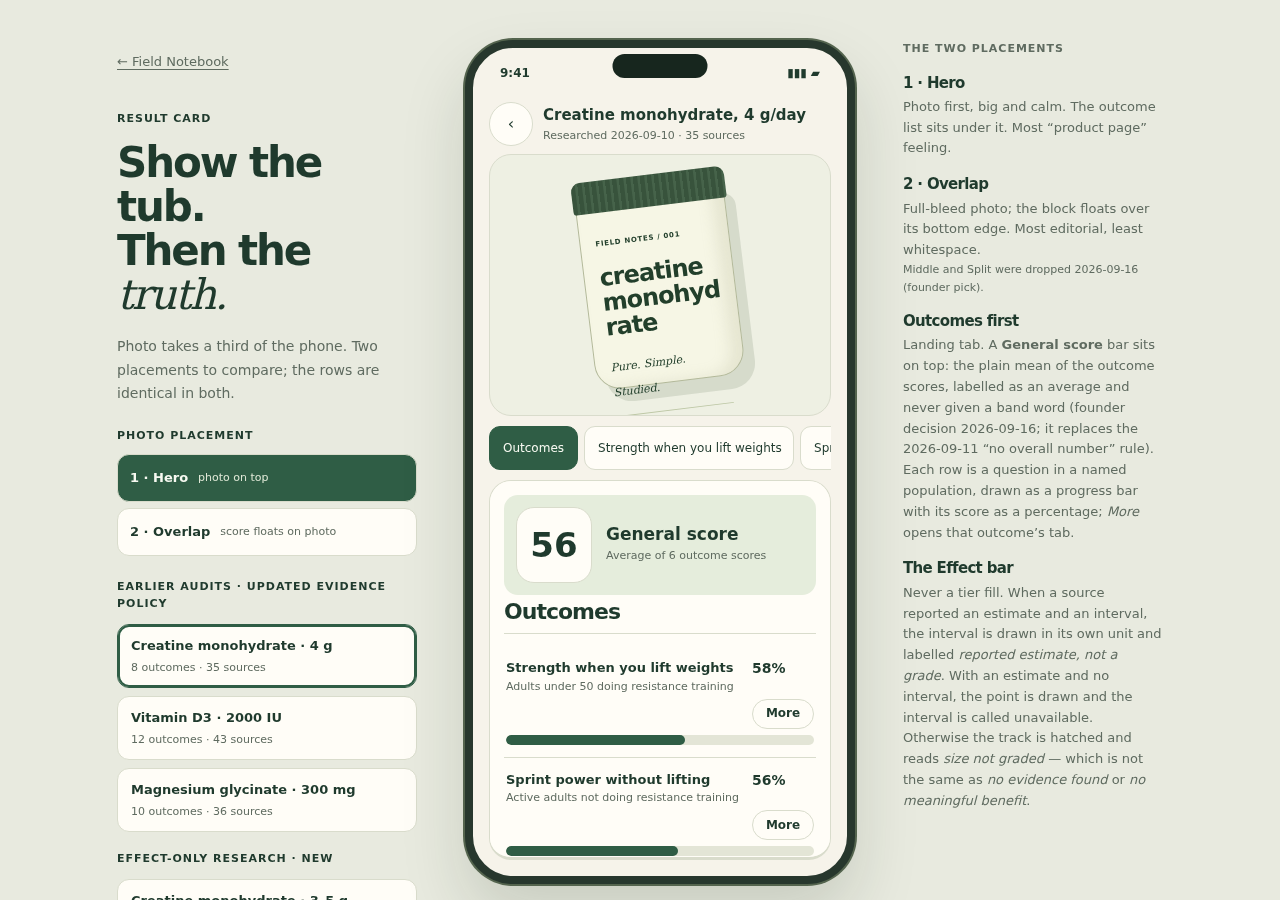
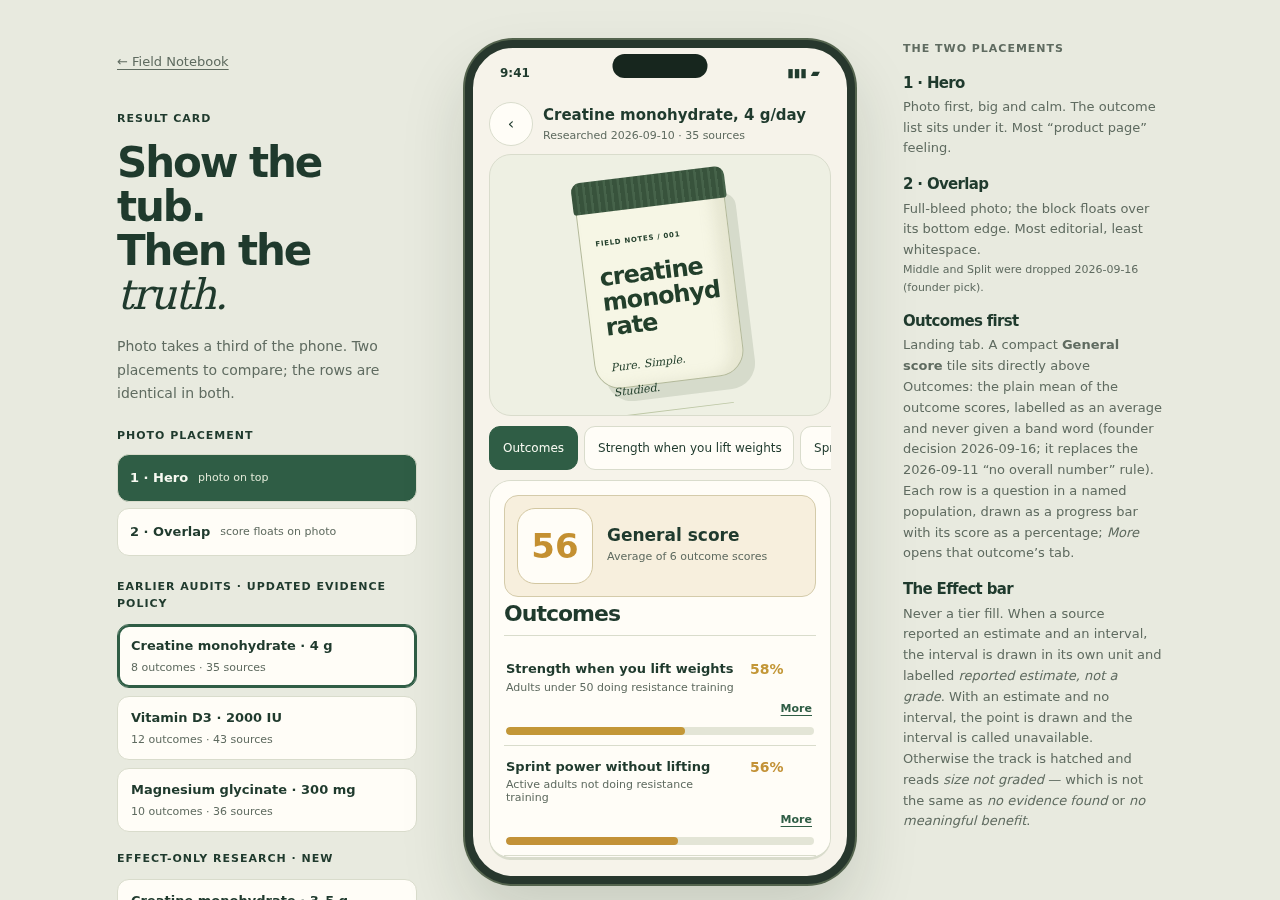
Preview: evidence-weighted score colors and collapsed warning counts
Outcome bars now map score direction red→amber→green; evidence coverage/certainty controls saturation/lightness so weak signals look weaker. Rows are compact with an underlined More action beneath the percentage and bar below. Lab and /scan warnings collapse behind one N warnings summary; validity remains visible. Checked 438 tests, typecheck, lint 0 errors, Python gates, build, 360/390 no overflow.

diff --git a/app/design-lab/ab/prototype.tsx b/app/design-lab/ab/prototype.tsx
@@ -1,6 +1,6 @@
 "use client";
 
-import { useState } from "react";
+import { useState, type CSSProperties } from "react";
 import Link from "next/link";
 import { detailFromAudit, ledgerFromAudit, personFit, score, type AuditFile, type Ledger, type Profile, type StudiedIn } from "./ledger";
 import { parseEffectResearch, type EffectResearchFile } from "./effect-contract";
@@ -177,6 +177,18 @@ interface Row {
   kind?: string;
 }
 
+function scoreSignalColor(score: number | null, signal = 1): string {
+  if (score === null) return "var(--ab-muted)";
+  const value = Math.max(0, Math.min(100, score));
+  const strength = Math.max(0, Math.min(1, signal));
+  // 0 → red, 60 → amber, 100 → green. Evidence strength controls
+  // saturation/lightness: weak signals look deliberately washed, not certain.
+  const hue = value <= 60 ? (value / 60) * 42 : 42 + ((value - 60) / 40) * 98;
+  const saturation = 32 + strength * 48;
+  const lightness = 54 - strength * 10;
+  return `hsl(${Math.round(hue)} ${Math.round(saturation)}% ${Math.round(lightness)}%)`;
+}
+
 const TRACK_FOR: Record<EffectBar["kind"], TrackState> = {
   reported_interval: "interval",
   reported_point: "interval",
@@ -270,7 +282,7 @@ export default function AbPrototype({ initial, publicTest = false }: AbPrototype
    * word ("probably works") -- the bar and the number carry it; the drill-in
    * button says where the detail lives. */
   const outcomeRows: Row[] = scored.map((x, i): Row => ({
-    id: `o${i}`, name: x.o.name, sub: x.o.population, color: isPicked(x.o) ? "var(--ab-r1)" : "var(--ab-track)",
+    id: `o${i}`, name: x.o.name, sub: x.o.population, color: isPicked(x.o) ? scoreSignalColor(x.r?.headline ?? null, x.r ? x.r.certainty / 4 : 0) : "var(--ab-track)",
     fill: x.r && x.r.headline !== null ? x.r.headline / 100 : null, track: x.r && x.r.headline !== null ? "fill" : "hatch", scale: null,
     pts: x.r && x.r.headline !== null ? `${x.r.headline}%` : "—",
     word: isPicked(x.o) ? "" : "Not picked",
@@ -293,9 +305,11 @@ export default function AbPrototype({ initial, publicTest = false }: AbPrototype
    * as a verdict about one person (founder decision 2026-09-16). */
   const pickedHeadlines = scored.filter((x) => isPicked(x.o) && x.r && x.r.headline !== null).map((x) => x.r!.headline as number);
   const general = pickedHeadlines.length ? Math.round(pickedHeadlines.reduce((a, b) => a + b, 0) / pickedHeadlines.length) : null;
+  const pickedSignals = scored.filter((x) => isPicked(x.o) && x.r && x.r.headline !== null).map((x) => x.r!.certainty / 4);
+  const generalSignal = pickedSignals.length ? pickedSignals.reduce((a, b) => a + b, 0) / pickedSignals.length : 0;
   const listBlock = (
     <div className="ab-listhead">
-      <div className="ab-general" role="img" aria-label={general === null ? "General score: no scored outcomes" : `General score ${general}, average of ${pickedHeadlines.length} outcome scores`}>
+      <div className="ab-general" style={{ "--ab-score-color": scoreSignalColor(general, generalSignal) } as CSSProperties} role="img" aria-label={general === null ? "General score: no scored outcomes" : `General score ${general}, average of ${pickedHeadlines.length} outcome scores; signal strength ${Math.round(generalSignal * 100)}%`}>
         <strong className="ab-general-score">{general === null ? "\u2014" : general}</strong>
         <span className="ab-general-name">General score<small>Average of {pickedHeadlines.length} outcome score{pickedHeadlines.length === 1 ? "" : "s"}</small></span>
       </div>
@@ -322,7 +336,7 @@ export default function AbPrototype({ initial, publicTest = false }: AbPrototype
       <button type="button" aria-expanded={d.jump === null ? isOpen : undefined} aria-controls={d.jump === null ? `ab-det-${d.id}` : undefined} onClick={onTap}>
         <span className="ab-bar-name">{d.name}{d.sub && <small>{d.sub}</small>}</span>
         <span className="ab-bar-word">{d.word}</span>
-        <span className="ab-bar-pts">{d.pts}</span>
+        <span className="ab-bar-pts" style={isList && d.fill !== null ? { color: d.color } : undefined}>{d.pts}</span>
         {d.jump !== null
           ? <span className="ab-more" aria-hidden="true">More</span>
           : <span className="ab-chev" aria-hidden="true"><svg width="16" height="16" viewBox="0 0 16 16"><path d="M3 6l5 5 5-5" fill="none" stroke="currentColor" strokeWidth="1.8" strokeLinecap="round" strokeLinejoin="round"/></svg></span>}
@@ -338,16 +352,18 @@ export default function AbPrototype({ initial, publicTest = false }: AbPrototype
     </li>;
   })}</ul>;
   const gates = legacy && firedGates.length > 0 && <details className="ab-gates"><summary>⚑ {firedGates.length === 1 ? firedGates[0] : `${firedGates.length} limits · ${firedGates[0]}`}</summary><ul>{firedGates.map((g) => <li key={g}>{g}</li>)}</ul></details>;
-  const warnings = cur?.o.warnings && <section className="ab-warnings" aria-label="Evidence warnings" key={`${key}:${tab}`}>
-    <p><b>⚠ Evidence warnings</b> · disclosure only, no score penalty</p>
-    {cur.o.warnings.map((w) => <details key={w.id} data-warning={w.id}>
-      <summary>{w.title} · {w.status}</summary>
-      <p>{w.explanation}</p>
-      <p className="ab-stamp">Retained AI source notes · not human-verified. Quoted audit commentary is not the current scoring rule.</p>
-      {w.reported.length ? w.reported.map((text, i) => <p key={i}>{text}</p>) : <p>No specific source detail was retained. That is unknown, not evidence that the literature is free of this concern.</p>}
-      {cur.o.effect.sourceLinks.length > 0 && <p><b>Sources for this outcome</b> {cur.o.effect.sourceLinks.map((l) => l.url ? <a key={l.id} href={l.url} target="_blank" rel="noreferrer">{l.label} ({l.access}) </a> : <span key={l.id}>{l.label} ({l.access}) </span>)}</p>}
-    </details>)}
-  </section>;
+  const warnings = cur?.o.warnings?.length ? <details className="ab-warnings" key={`${key}:${tab}`}>
+    <summary><span>⚠ {cur.o.warnings.length} evidence warning{cur.o.warnings.length === 1 ? "" : "s"}</span><small>disclosure only, no score penalty</small></summary>
+    <div className="ab-warning-list" aria-label="Evidence warnings">
+      {cur.o.warnings.map((w) => <details key={w.id} data-warning={w.id}>
+        <summary>{w.title} · {w.status}</summary>
+        <p>{w.explanation}</p>
+        <p className="ab-stamp">Retained AI source notes · not human-verified. Quoted audit commentary is not the current scoring rule.</p>
+        {w.reported.length ? w.reported.map((text, i) => <p key={i}>{text}</p>) : <p>No specific source detail was retained. That is unknown, not evidence that the literature is free of this concern.</p>}
+        {cur.o.effect.sourceLinks.length > 0 && <p><b>Sources for this outcome</b> {cur.o.effect.sourceLinks.map((l) => l.url ? <a key={l.id} href={l.url} target="_blank" rel="noreferrer">{l.label} ({l.access}) </a> : <span key={l.id}>{l.label} ({l.access}) </span>)}</p>}
+      </details>)}
+    </div>
+  </details> : null;
   const tabs = <div className="ab-tabs" aria-label="Outcome"><button type="button" aria-pressed={isList} onClick={() => go(null)}>Outcomes</button>{scored.map((x) => <button key={x.k} type="button" aria-pressed={tab === x.k} onClick={() => go(x.k)} title={x.o.population ?? undefined}>{x.o.name}</button>)}</div>;
   const header = <header className="ab-top"><button type="button" className="ab-back" aria-label="Back" onClick={() => go(null)}>‹</button><div className="ab-title"><strong>{s.product}</strong>{s.live && <small>Researched {s.live.runAt} · {s.live.sources} sources</small>}{s.research && <small>Effect-only pass {s.research.meta.run_at} · {s.research.sources.length} sources</small>}</div></header>;
   const block = isList ? listBlock : detailBlock;

diff --git a/components/scan-flow.tsx b/components/scan-flow.tsx
@@ -54,7 +54,7 @@
  *    currently visible.
  */
 
-import { useCallback, useEffect, useRef, useState } from "react";
+import { useCallback, useEffect, useRef, useState, type CSSProperties } from "react";
 
 import { SaveResultCard } from "@/components/google-sign-in";
 import { ScanCamera } from "@/components/scan-camera";
@@ -89,6 +89,16 @@ const ACCEPTED_TYPES = "image/png,image/jpeg,image/webp,image/gif";
 
 function pct(value: NullableNumber): string {
   return value === null || value === undefined ? "—" : `${Math.round(value * 100)}%`;
+}
+
+function scoreSignalColor(score: NullableNumber, signal: NullableNumber): string {
+  if (score === null || score === undefined) return "var(--sp-mute)";
+  const value = Math.max(0, Math.min(100, score));
+  const strength = Math.max(0, Math.min(1, signal ?? 0));
+  const hue = value <= 60 ? (value / 60) * 42 : 42 + ((value - 60) / 40) * 98;
+  const saturation = 32 + strength * 48;
+  const lightness = 54 - strength * 10;
+  return `hsl(${Math.round(hue)} ${Math.round(saturation)}% ${Math.round(lightness)}%)`;
 }
 
 function signed(value: NullableNumber): string {
@@ -326,10 +336,13 @@ function OutcomeTabs({ rows }: { rows: EvidenceRow[] }) {
         ) : (
           <>
             {(() => {
-              const scores = rows.map((r) => r.composite).filter((c): c is number => typeof c === "number");
+              const scoredRows = rows.filter((r) => typeof r.composite === "number");
+              const scores = scoredRows.map((r) => r.composite as number);
               const general = scores.length ? Math.round(scores.reduce((a, b) => a + b, 0) / scores.length) : null;
+              const signals = scoredRows.map((r) => r.arcs.evidence?.coverage).filter((v): v is number => typeof v === "number");
+              const generalSignal = signals.length ? signals.reduce((a, b) => a + b, 0) / signals.length : 0;
               return (
-                <div className="sc-general" role="img" aria-label={general === null ? "General score: no scored outcomes" : `General score ${general}, average of ${scores.length} outcome scores`}>
+                <div className="sc-general" style={{ "--sc-score-color": scoreSignalColor(general, generalSignal) } as CSSProperties} role="img" aria-label={general === null ? "General score: no scored outcomes" : `General score ${general}, average of ${scores.length} outcome scores; signal strength ${Math.round(generalSignal * 100)}%`}>
                   <strong className="sc-general-score">{general === null ? "\u2014" : general}</strong>
                   <span className="sc-general-name">
                     <strong>General score</strong>
@@ -345,9 +358,9 @@ function OutcomeTabs({ rows }: { rows: EvidenceRow[] }) {
                 <li key={row.outcome}>
                   <button type="button" className={`sc-outcome-row${gated ? " sc-outcome-row-gated" : ""}`} onClick={() => go(row.outcome, true)} aria-label={`${label(row)}, ${gated ? "no composite score" : `${row.composite} out of 100`}. More`}>
                     <span className="sc-outcome-row-name"><strong>{label(row)}</strong></span>
-                    <span className="sc-outcome-row-score"><strong>{gated ? "—" : `${row.composite}%`}</strong></span>
+                    <span className="sc-outcome-row-score"><strong style={!gated ? { color: scoreSignalColor(row.composite, row.arcs.evidence?.coverage) } : undefined}>{gated ? "—" : `${row.composite}%`}</strong></span>
                     <span className="sc-outcome-row-track" aria-hidden="true">
-                      <span className="sc-outcome-row-fill" style={{ width: `${gated ? 0 : Math.max(0, Math.min(100, row.composite ?? 0))}%` }} />
+                      <span className="sc-outcome-row-fill" style={{ width: `${gated ? 0 : Math.max(0, Math.min(100, row.composite ?? 0))}%`, background: scoreSignalColor(row.composite, row.arcs.evidence?.coverage) }} />
                     </span>
                     <span className="sc-outcome-row-more" aria-hidden="true">More</span>
                   </button>
@@ -642,7 +655,8 @@ export function ScanFlow({ catalog }: { catalog: CatalogIngredient[] }) {
 
   const disclosures = data ? literatureDisclosures(data.literature_warnings?.data) : [];
   const mlm = company?.profile.status === "ok" ? businessModelDisclosure(company.profile.data?.business_model) : null;
-  const hasNotices = Boolean(evidence?.validity || data?.caveats?.length || disclosures.length || mlm);
+  const warningCount = (data?.caveats?.length ?? 0) + disclosures.length + (mlm ? 1 : 0);
+  const hasNotices = Boolean(evidence?.validity || warningCount);
 
   return (
     <section className="la scan sc" aria-label="Scan a supplement">
@@ -885,13 +899,23 @@ export function ScanFlow({ catalog }: { catalog: CatalogIngredient[] }) {
                         <span>{evidence.validity.note ?? "Retained for inspection. The scoring constants have not passed anchor calibration."}</span>
                       </div>
                     ) : null}
-                    {data.caveats?.map((c) => (
-                      <Notice key={c.code} title={words(c.code).replace(/^\w/, (ch) => ch.toUpperCase())} lede={firstSentence(c.text)} body={c.text} />
-                    ))}
-                    {disclosures.map((d) => (
-                      <Notice key={d.title} title={d.title} lede={firstSentence(d.body)} body={d.body} role="note" ariaLabel={`${d.title} disclosure`} />
-                    ))}
-                    {mlm ? <Notice title={mlm.title} lede={firstSentence(mlm.body.replace(/^Model knowledge — unverified\.\s*/, "").replace(/^This company/, `${company?.brand ?? "This company"}`))} body={mlm.body} role="note" ariaLabel="Business model disclosure" /> : null}
+                    {warningCount ? (
+                      <details className="sc-warning-bundle">
+                        <summary>
+                          <span>{warningCount} warning{warningCount === 1 ? "" : "s"}</span>
+                          <small>Open before deciding</small>
+                        </summary>
+                        <div className="sc-warning-list">
+                          {data.caveats?.map((c) => (
+                            <Notice key={c.code} title={words(c.code).replace(/^\w/, (ch) => ch.toUpperCase())} lede={firstSentence(c.text)} body={c.text} />
+                          ))}
+                          {disclosures.map((d) => (
+                            <Notice key={d.title} title={d.title} lede={firstSentence(d.body)} body={d.body} role="note" ariaLabel={`${d.title} disclosure`} />
+                          ))}
+                          {mlm ? <Notice title={mlm.title} lede={firstSentence(mlm.body.replace(/^Model knowledge — unverified\.\s*/, "").replace(/^This company/, `${company?.brand ?? "This company"}`))} body={mlm.body} role="note" ariaLabel="Business model disclosure" /> : null}
+                        </div>
+                      </details>
+                    ) : null}
                   </section>
                 ) : null}
 

diff --git a/app/globals.css b/app/globals.css
@@ -1109,6 +1109,15 @@ body:has(.scan-page) .footer-inner p:last-child { display: none; }
 .sc-notice-lede { color: var(--sp-mute); font-size: var(--fs-1); white-space: nowrap; overflow: hidden; text-overflow: ellipsis; }
 .sc-notice-details[open] .sc-notice-lede { visibility: hidden; }
 .sc-notice-details > p { margin: 0; padding: 0 14px 12px; color: var(--sp-mute); font-size: var(--fs-2); }
+.sc-warning-bundle { border: 1px solid #d6b46c; border-radius: 12px; background: #fffaf0; overflow: hidden; }
+.sc-warning-bundle > summary { display: grid; grid-template-columns: 1fr 12px; align-items: center; gap: 2px 10px; min-height: 52px; padding: 8px 14px; cursor: pointer; list-style: none; }
+.sc-warning-bundle > summary::-webkit-details-marker { display: none; }
+.sc-warning-bundle > summary span { font-size: var(--fs-2); font-weight: 700; color: #7a5200; }
+.sc-warning-bundle > summary small { grid-column: 1; font-size: var(--fs-1); color: var(--sp-mute); }
+.sc-warning-bundle > summary::after { content: ""; grid-column: 2; grid-row: 1 / 3; width: 8px; height: 8px; margin-top: -4px; border-right: 1.5px solid #7a5200; border-bottom: 1.5px solid #7a5200; transform: rotate(45deg); transition: transform 120ms ease; }
+.sc-warning-bundle[open] > summary::after { transform: rotate(225deg); margin-top: 4px; }
+.sc-warning-list { display: grid; gap: 6px; padding: 0 8px 8px; }
+.sc-warning-list .sc-notice { background: var(--sp-white); }
 @media (max-width: 420px) {
   .sc-notice-details > summary { grid-template-columns: minmax(0, 1fr) 12px; }
   .sc-notice-details > summary strong { white-space: normal; }
@@ -1324,8 +1333,8 @@ body:has(.scan-page) .footer-inner p:last-child { display: none; }
 .scan-page .sc-outcome-list { list-style: none; margin: 0; padding: 0; border: 1px solid var(--sp-line); border-radius: 14px; background: var(--sp-white); overflow: hidden; }
 .scan-page .sc-outcome-list li + li { border-top: 1px solid var(--sp-line); }
 .scan-page .sc-outcome-row {
-  display: grid; grid-template-columns: 1fr auto; grid-template-rows: auto auto auto; align-items: center; gap: 8px 12px;
-  width: 100%; padding: 14px; border: 0; background: transparent; color: inherit;
+  display: grid; grid-template-columns: minmax(0, 1fr) 74px; grid-template-rows: auto auto auto; align-items: center; gap: 3px 14px;
+  width: 100%; padding: 12px 14px; border: 0; background: transparent; color: inherit;
   font: inherit; text-align: left; cursor: pointer;
 }
 .scan-page .sc-outcome-row:hover { background: var(--sp-tint); }
@@ -1333,22 +1342,22 @@ body:has(.scan-page) .footer-inner p:last-child { display: none; }
 .scan-page .sc-outcome-row-name strong { font-size: var(--fs-3); font-weight: 600; }
 .scan-page .sc-outcome-row-score { grid-column: 2; grid-row: 1; font-variant-numeric: tabular-nums; }
 .scan-page .sc-outcome-row-score strong { font-size: var(--fs-4); font-weight: 700; letter-spacing: -0.02em; line-height: 1; }
-.scan-page .sc-outcome-row-track { grid-column: 1 / 3; grid-row: 3; display: block; height: 10px; border-radius: 999px; background: var(--sp-tint); overflow: hidden; }
+.scan-page .sc-outcome-row-track { grid-column: 1 / 3; grid-row: 3; display: block; height: 8px; margin-top: 4px; border-radius: 999px; background: var(--sp-tint); overflow: hidden; }
 .scan-page .sc-outcome-row-gated .sc-outcome-row-track { background: repeating-linear-gradient(135deg, var(--sp-tint) 0 5px, transparent 5px 9px); border: 1px dashed var(--sp-line); }
 .scan-page .sc-outcome-row-fill { display: block; height: 100%; border-radius: 999px; background: var(--sp-measured); }
 .scan-page .sc-outcome-row-more {
-  grid-column: 2; grid-row: 2; justify-self: end; display: inline-flex; align-items: center; justify-content: center; min-width: 68px; min-height: 34px; padding: 0 14px;
-  border: 1px solid var(--sp-line); border-radius: 999px; background: var(--sp-white); font-size: var(--fs-1); font-weight: 600; color: var(--sp-ink);
+  grid-column: 2; grid-row: 2; justify-self: end; display: inline-flex; align-items: center; justify-content: center; min-height: 28px; padding: 0 2px;
+  border: 0; border-radius: 0; background: transparent; font-size: var(--fs-1); font-weight: 700; color: var(--sp-measured); text-decoration: underline; text-underline-offset: 3px;
 }
-.scan-page .sc-outcome-row:hover .sc-outcome-row-more { background: var(--sp-ink); color: var(--sp-white); border-color: var(--sp-ink); }
+.scan-page .sc-outcome-row:hover .sc-outcome-row-more { color: var(--sp-ink); }
 .scan-page .sc-tab-back {
   justify-self: start; min-height: 44px; padding: 0 14px; border: 1px solid var(--sp-line); border-radius: 999px;
   background: var(--sp-white); color: var(--sp-ink); font: inherit; font-size: var(--fs-1); font-weight: 600; cursor: pointer;
 }
 
 /* General score immediately above the Outcomes list: compact score tile. */
-.scan-page .sc-general { display: grid; grid-template-columns: 86px 1fr; align-items: center; gap: 16px; padding: 14px; border-radius: 16px; background: #e7eee8; }
-.scan-page .sc-general-score { display: grid; place-items: center; width: 86px; height: 86px; border: 1px solid var(--sp-line); border-radius: 20px; background: var(--sp-white); font-size: var(--fs-6); font-weight: 700; line-height: 1; font-variant-numeric: tabular-nums; }
+.scan-page .sc-general { --sc-score-color: var(--sp-measured); display: grid; grid-template-columns: 86px 1fr; align-items: center; gap: 16px; padding: 14px; border: 1px solid color-mix(in srgb, var(--sc-score-color) 22%, var(--sp-line)); border-radius: 16px; background: color-mix(in srgb, var(--sc-score-color) 13%, var(--sp-white)); }
+.scan-page .sc-general-score { display: grid; place-items: center; width: 86px; height: 86px; border: 1px solid color-mix(in srgb, var(--sc-score-color) 28%, var(--sp-line)); border-radius: 20px; background: var(--sp-white); color: var(--sc-score-color); font-size: var(--fs-6); font-weight: 700; line-height: 1; font-variant-numeric: tabular-nums; }
 .scan-page .sc-general-name { display: grid; gap: 5px; }
 .scan-page .sc-general-name strong { font-size: var(--fs-4); font-weight: 700; line-height: 1.05; }
 .scan-page .sc-general-name small { font-size: var(--fs-1); line-height: 1.4; color: var(--sp-mute); }

diff --git a/app/design-lab/ab/ab.css b/app/design-lab/ab/ab.css
@@ -90,8 +90,8 @@ body:has(.ab-stage)>.site-header,body:has(.ab-stage)>.site-footer{display:none}
 .ab-listhead{display:grid;gap:6px;padding:0 0 10px;border-bottom:1px solid var(--ab-line);margin-bottom:4px}
 .ab-listhead h2{font-size:22px}
 .ab-listhead p{font-size:12px;line-height:1.45;color:var(--ab-muted)}
-.ab-general{display:grid;grid-template-columns:76px 1fr;align-items:center;gap:14px;padding:12px;border-radius:14px;background:#e5eddc}
-.ab-general-score{display:grid;place-items:center;width:76px;height:76px;border:1px solid var(--ab-line);border-radius:18px;background:var(--ab-surface);font-size:34px;line-height:1;font-variant-numeric:tabular-nums}
+.ab-general{--ab-score-color:var(--ab-r1);display:grid;grid-template-columns:76px 1fr;align-items:center;gap:14px;padding:12px;border-radius:14px;background:color-mix(in srgb,var(--ab-score-color) 13%,var(--ab-surface));border:1px solid color-mix(in srgb,var(--ab-score-color) 22%,var(--ab-line))}
+.ab-general-score{display:grid;place-items:center;width:76px;height:76px;border:1px solid color-mix(in srgb,var(--ab-score-color) 28%,var(--ab-line));border-radius:18px;background:var(--ab-surface);color:var(--ab-score-color);font-size:34px;line-height:1;font-variant-numeric:tabular-nums}
 .ab-general-name{font-weight:700;font-size:17px;line-height:1.05;display:grid;gap:5px}
 .ab-general-name small{font-weight:500;font-size:11px;line-height:1.35;color:var(--ab-muted)}
 .ab-stamp{font-size:11px;line-height:1.4;color:var(--ab-muted);background:var(--ab-soft);border-radius:8px;padding:5px 8px}
@@ -131,14 +131,14 @@ body:has(.ab-stage)>.site-header,body:has(.ab-stage)>.site-footer{display:none}
 .ab-split .ab-number{width:72px;height:72px}
 .ab-split .ab-number strong{font-size:30px}
 
-.ab-bars.outcomes li>button{grid-template-columns:minmax(0,1fr) auto;grid-template-rows:auto auto auto;row-gap:6px;min-height:72px;padding:10px 2px 12px}
+.ab-bars.outcomes li>button{grid-template-columns:minmax(0,1fr) 64px;grid-template-rows:auto auto auto;column-gap:12px;row-gap:3px;min-height:70px;padding:9px 2px 10px}
 .ab-bars.outcomes .ab-bar-name{grid-column:1;grid-row:1}
 .ab-bars.outcomes .ab-bar-word{grid-column:1;grid-row:1;justify-self:end;align-self:start;margin-right:8px}
 .ab-bars.outcomes .ab-bar-word:empty{display:none}
 .ab-bars.outcomes .ab-bar-pts{grid-column:2;grid-row:1;font-size:14px;align-self:start}
-.ab-more{grid-column:2;grid-row:2;justify-self:end;display:inline-flex;align-items:center;justify-content:center;min-width:62px;min-height:30px;padding:0 12px;border:1px solid var(--ab-line);border-radius:999px;font-size:12px;font-weight:650;color:var(--ab-ink,inherit);background:var(--ab-surface)}
-.ab-bars.outcomes .ab-bar-track{grid-column:1/3;grid-row:3}
-.ab-bars.outcomes li>button:hover .ab-more{background:var(--ab-track)}
+.ab-more{grid-column:2;grid-row:2;justify-self:end;display:inline-flex;align-items:center;justify-content:center;min-height:24px;padding:0 2px;border:0;border-radius:0;font-size:11px;font-weight:700;color:var(--ab-accent);text-decoration:underline;text-underline-offset:3px;background:transparent}
+.ab-bars.outcomes .ab-bar-track{grid-column:1/3;grid-row:3;height:8px;margin-top:3px}
+.ab-bars.outcomes li>button:hover .ab-more{color:var(--ab-ink)}
 .ab-bars.outcomes .ab-bar-name{overflow:hidden}
 .ab-bars.outcomes .ab-bar-name>small{white-space:normal}
 
@@ -164,10 +164,16 @@ body:has(.ab-stage)>.site-header,body:has(.ab-stage)>.site-footer{display:none}
 .ab-profile small{display:block;font-size:11.5px;color:var(--ab-muted);line-height:1.35}
 
 /* Public test site: page scrolling, not a simulated device viewport. */
-.ab-warnings{flex-shrink:0;display:grid;gap:8px;margin:10px 0;font-size:12px;line-height:1.5}
-.ab-warnings details{border:1px solid #cfaa83;border-radius:12px;background:var(--ab-warn-bg);padding:0 12px;overflow-wrap:anywhere}
-.ab-warnings summary{cursor:pointer;min-height:44px;padding:10px 0;font-weight:650;color:var(--ab-warn)}
-.ab-warnings details p{margin:8px 0}.ab-warnings a{display:inline-block;padding:8px 0;color:var(--ab-accent);text-decoration:underline}
+.ab-warnings{flex-shrink:0;margin:10px 0;border:1px solid #cfaa83;border-radius:12px;background:var(--ab-warn-bg);font-size:12px;line-height:1.5;overflow:hidden}
+.ab-warnings>summary{cursor:pointer;min-height:48px;padding:9px 12px;display:grid;grid-template-columns:1fr auto;align-items:center;gap:8px;font-weight:700;color:var(--ab-warn);list-style:none}
+.ab-warnings>summary::-webkit-details-marker{display:none}
+.ab-warnings>summary::after{content:"⌄";grid-column:2;grid-row:1/3;font-size:19px;line-height:1;transition:transform .18s ease}
+.ab-warnings[open]>summary::after{transform:rotate(180deg)}
+.ab-warnings>summary small{grid-column:1;font-size:10px;font-weight:500;color:var(--ab-muted)}
+.ab-warning-list{display:grid;gap:8px;padding:0 10px 10px}
+.ab-warning-list>details{border:1px solid #cfaa83;border-radius:10px;background:var(--ab-surface);padding:0 10px;overflow-wrap:anywhere}
+.ab-warning-list>details>summary{cursor:pointer;min-height:42px;padding:9px 0;font-weight:650;color:var(--ab-warn)}
+.ab-warning-list details p{margin:8px 0}.ab-warnings a{display:inline-block;padding:8px 0;color:var(--ab-accent);text-decoration:underline}
 .ab-public{display:block;padding:40px 24px;background:var(--ab-bg)}
 .ab-public-wrap{max-width:960px;margin:auto;min-width:0}
 .ab-public-intro{display:grid;gap:16px;margin-bottom:30px;max-width:740px}

diff --git a/tests/scan-result-state.test.tsx b/tests/scan-result-state.test.tsx
@@ -140,6 +140,11 @@ describe("/scan result state", () => {
     // Caveat, funding, publication bias and MLM are all rows of the same stack,
     // still carrying the class every disclosure has always used, with the full
     // text reachable inside a native <details>.
+    const bundle = stack!.querySelector<HTMLDetailsElement>(".sc-warning-bundle");
+    expect(bundle).not.toBeNull();
+    expect(bundle!.open).toBe(false);
+    expect(bundle!.querySelector(":scope > summary")?.textContent).toContain("4 warnings");
+
     const titles = Array.from(stack!.querySelectorAll(".la-alert-warn strong")).map((s) => s.textContent);
     expect(titles).toEqual(
       expect.arrayContaining(["Multi ingredient product", "Funding & independence", "Publication bias", "MLM / direct-selling business model"]),
@@ -183,6 +188,26 @@ describe("/scan result state", () => {
     await act(async () => tabs[0].click());
     expect(el.querySelectorAll(".scan-evidence")).toHaveLength(0);
     expect(el.querySelectorAll(".sc-outcome-row")).toHaveLength(fixture.evidence.rows.length);
+  });
+
+  it("uses score direction for red/amber/green and evidence coverage for signal strength", async () => {
+    const source = fixture.evidence.rows[0];
+    const rows = [
+      { ...source, outcome: "bad", outcome_label: "Bad", composite: 20, arcs: { ...source.arcs, evidence: { ...source.arcs.evidence, coverage: 1 } } },
+      { ...source, outcome: "middle", outcome_label: "Middle", composite: 55, arcs: { ...source.arcs, evidence: { ...source.arcs.evidence, coverage: 1 } } },
+      { ...source, outcome: "good", outcome_label: "Good", composite: 85, arcs: { ...source.arcs, evidence: { ...source.arcs.evidence, coverage: 1 } } },
+      { ...source, outcome: "weak", outcome_label: "Weak signal", composite: 55, arcs: { ...source.arcs, evidence: { ...source.arcs.evidence, coverage: 0.1 } } },
+    ];
+    mockFetch({ ...fixture, evidence: { ...fixture.evidence, rows } });
+    const el = await mount();
+    await scanPhoto(el);
+    const colors = Array.from(el.querySelectorAll<HTMLElement>(".sc-outcome-row-fill")).map((bar) => bar.style.background);
+    const rgb = colors.map((color) => (color.match(/\d+/g) ?? []).map(Number));
+    expect(rgb[0][0]).toBeGreaterThan(rgb[0][1] * 2); // low score: red/orange
+    expect(rgb[1][0]).toBeGreaterThan(rgb[1][1]); // middle score: amber
+    expect(rgb[1][1]).toBeGreaterThan(rgb[1][2] * 2);
+    expect(rgb[2][1]).toBeGreaterThan(rgb[2][0]); // high score: green
+    expect(colors[3]).not.toBe(colors[1]); // same score, weaker evidence: less saturated/lighter
   });
 
   /* Open every outcome tab in turn and collect its (single) card. */

diff --git a/tests/evidence-warnings.test.tsx b/tests/evidence-warnings.test.tsx
@@ -97,6 +97,7 @@ describe("test-site disclosure-only policy", () => {
   it("warnings use native keyboard-operable details with no nested buttons", () => {
     const o = audits[0].outcomes[0];
     const html = renderToStaticMarkup(<AbPrototype publicTest initial={{ product: "creatine", outcome: `${o.name}||${o.population}` }} />);
+    expect(html).toContain('<details class="ab-warnings"><summary><span>⚠ 2 evidence warnings</span>');
     expect(html).toContain('data-warning="funding"');
     expect(html).toContain('data-warning="publication"');
     expect(html).toContain("disclosure only, no score penalty");

diff --git a/tests/effect-presentation.test.ts b/tests/effect-presentation.test.ts
@@ -76,7 +76,7 @@ describe("the landing tab is Outcomes, headed by a general score that is labelle
   it("rows are progress bars with a percentage and a 'More' button, no band word or rubric message", () => {
     expect(markup).toContain(">More<");
     expect(markup).not.toMatch(/test rubric/i);
-    expect(markup).toMatch(/ab-bar-pts">\d+%</);
+    expect(markup).toMatch(/ab-bar-pts"[^>]*>\d+%</);
   });
 
   it("carries no overall band label", () => {

diff --git a/docs/design/2026-09-16-scan-design-system.md b/docs/design/2026-09-16-scan-design-system.md
@@ -290,5 +290,6 @@ with all cards stacked). Screenshots: `docs/design/ref/tabs-preview/`.
 Rows are progress bars: name, score as a percentage, bar filled to it, and a
 compact `More` button beneath the percentage, opening that outcome's tab. Visible legacy “Test rubric” stamps are removed from the card. The verdict word is gone
 from the list (bar + number carry it). Immediately above the Outcomes heading/list sits a compact **General score** tile: the mean in a white rounded square, with "Average of N outcome scores" beside it. This reverses the 2026-09-11 "no overall number" rule by founder
-decision; the label is the guard against reading it as a verdict. Same
-treatment in `app/design-lab/ab` (Hero + Overlap layouts only).
+decision; the label is the guard against reading it as a verdict. Same treatment in `app/design-lab/ab` (Hero + Overlap layouts only).
+
+Score bars use a continuous direction palette: low scores move through red, middle scores through amber, and stronger scores toward green. Evidence coverage/certainty controls saturation and lightness, so a weak signal is visibly washed rather than painted with the confidence of a strong one; color never replaces the numeric score. Outcome rows use a quiet underlined `More` action in the right column, directly under the percentage, with the full-width bar below both columns. Warning disclosures are hidden behind one native `<details>` summary (`N warnings` / `N evidence warnings`); the run-validity banner remains visible before every score.

diff --git a/CLAUDE.md b/CLAUDE.md
@@ -561,7 +561,7 @@ do not drop it.
 
 ## Current state
 
-- **2026-09-16 (preview branch `preview/restore-four-evidence-lines`, not on main):** `/scan` evidence section uses outcome tabs — an `Outcomes (n)` list with a General score (mean of outcome composites), progress bars per outcome, and a compact `More` button beneath each percentage; each outcome tab has the four full-width tracks. Visible “Test rubric” stamps are removed from the lab card. `components/scan-flow.tsx` `OutcomeTabs`; tests in `tests/scan-result-state.test.tsx` and `tests/effect-presentation.test.ts`.
+- **2026-09-16 (preview branch `preview/restore-four-evidence-lines`, not on main):** `/scan` evidence uses outcome tabs: General score mean tile; outcome bars whose hue runs red→amber→green by score and whose saturation/lightness follows evidence coverage; quiet `More` link under each percentage; four full-width tracks inside each outcome. Caveats/disclosures collapse behind one `N warnings` summary while the validity banner stays visible. The lab A/B card matches and keeps Hero + Overlap only. Visible “Test rubric” stamps are removed. Tests: `tests/scan-result-state.test.tsx`, `tests/effect-presentation.test.ts`, `tests/evidence-warnings.test.tsx`.
 
 **Preview-only — `/scan` restores the four prominent evidence tracks without reverting the compact
 result state.** On branch `preview/restore-four-evidence-lines`, each outcome card again gives **Does
